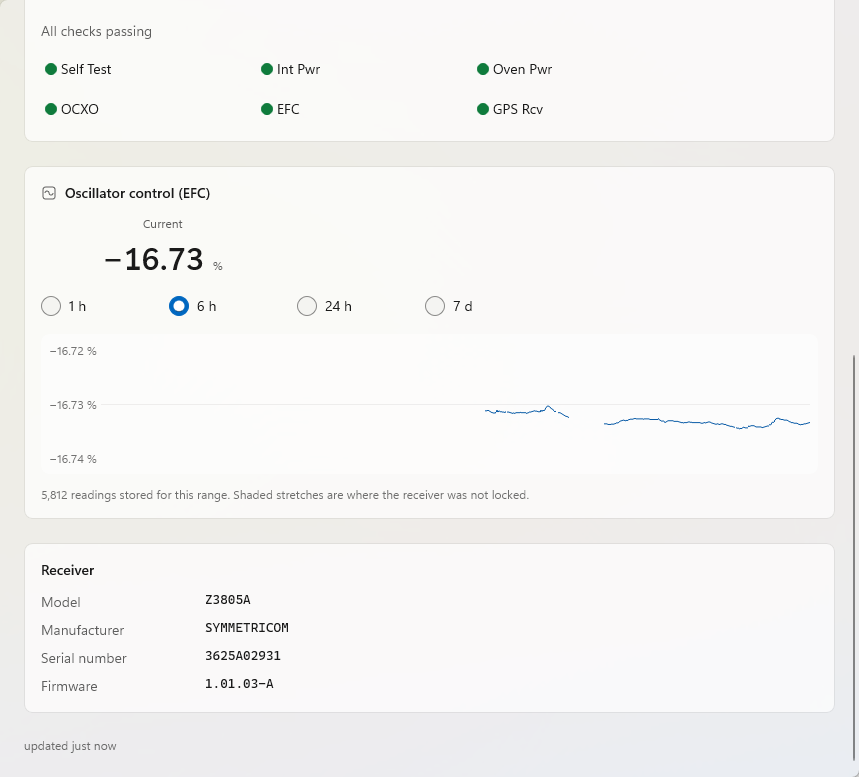
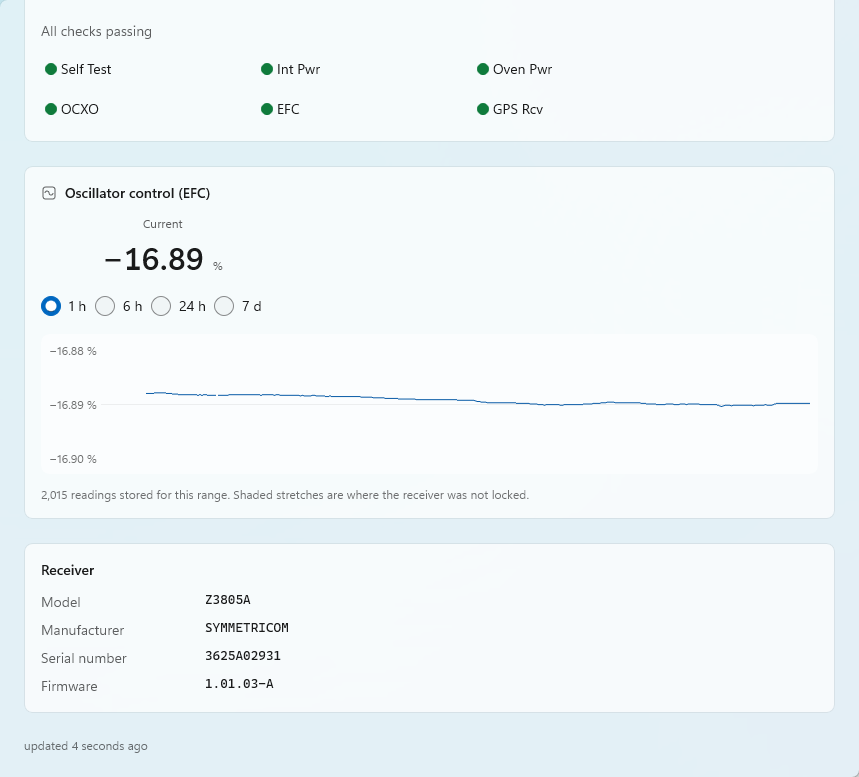
Retake the guide's lower Overview picture with a real hour of EFC trend
Left alone when the upper half was retaken (#786): a retake then showed
an EFC trend of 24 readings, one dot on an empty chart. With the app run
for an hour on the bench Z3805A, the 1 h range holds 2,015 readings, so
it is photographed with 1 h selected and a trend across the chart. It
also shows the range choices packed to their labels, as the app now
draws them, where the old picture had them spread across the card.

The alt text named the old picture's −16.73 %; it now gives this one's
−16.89 % and says which range is selected.

diff --git a/docs/how-to-use.md b/docs/how-to-use.md
@@ -325,7 +325,7 @@ Everything from the main window, with the words behind the numbers:
   pill at all. A GPS talker has no health monitor otherwise, so on one of those this is the only
   entry on the card — and it is the most useful one a timing receiver has.
 
-  ![The lower half of the Overview page: the end of the Health monitor card, an Oscillator control (EFC) card with the current value, −16.73 %, 1 h, 6 h, 24 h and 7 d choices and a trend, and a Receiver card with the model, manufacturer, serial number and firmware](images/how-to-use/page-overview-2.png)
+  ![The lower half of the Overview page: the end of the Health monitor card, an Oscillator control (EFC) card with the current value, −16.89 %, 1 h, 6 h, 24 h and 7 d choices with 1 h selected, and an hour's trend, and a Receiver card with the model, manufacturer, serial number and firmware](images/how-to-use/page-overview-2.png)
 
   **Integrity** — a second extra pill appears for a receiver that checks its own solution for a
   satellite that disagrees with the others, reading *Integrity checked — no fault* or naming the
